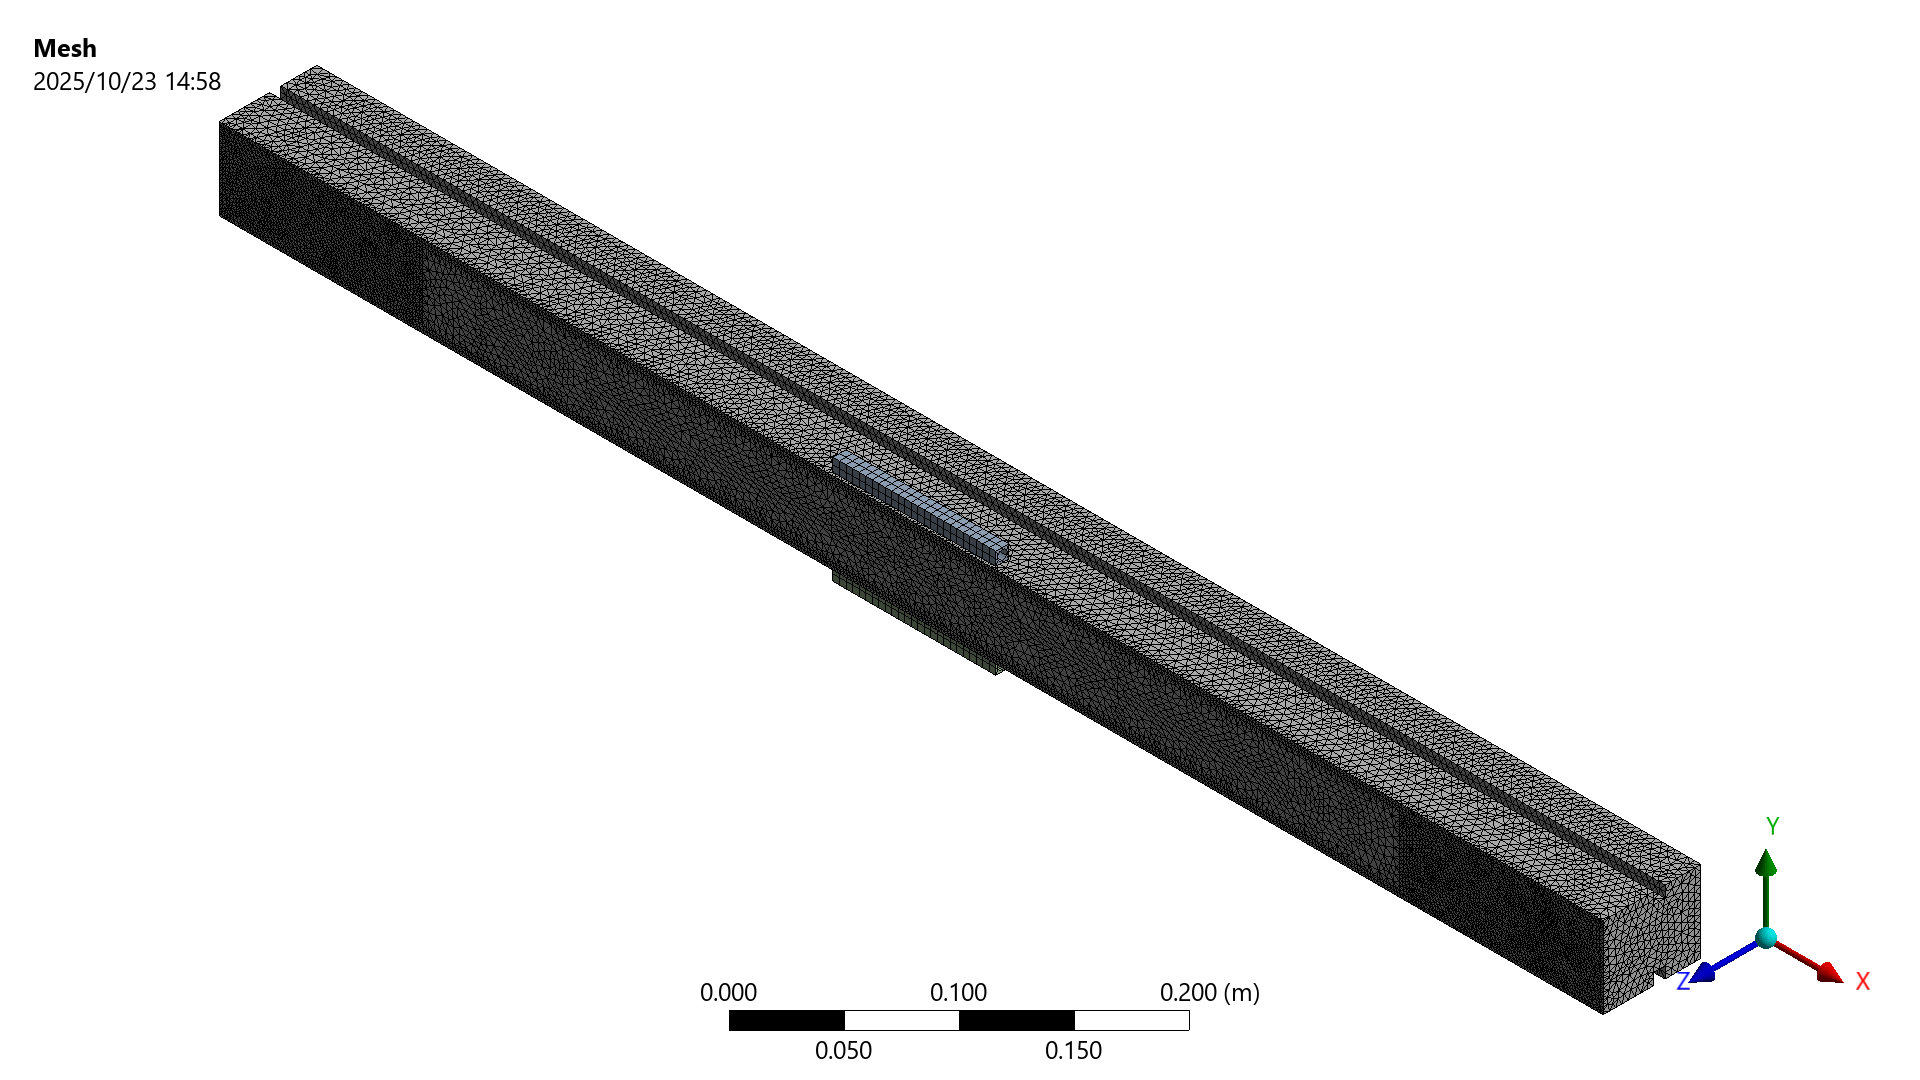
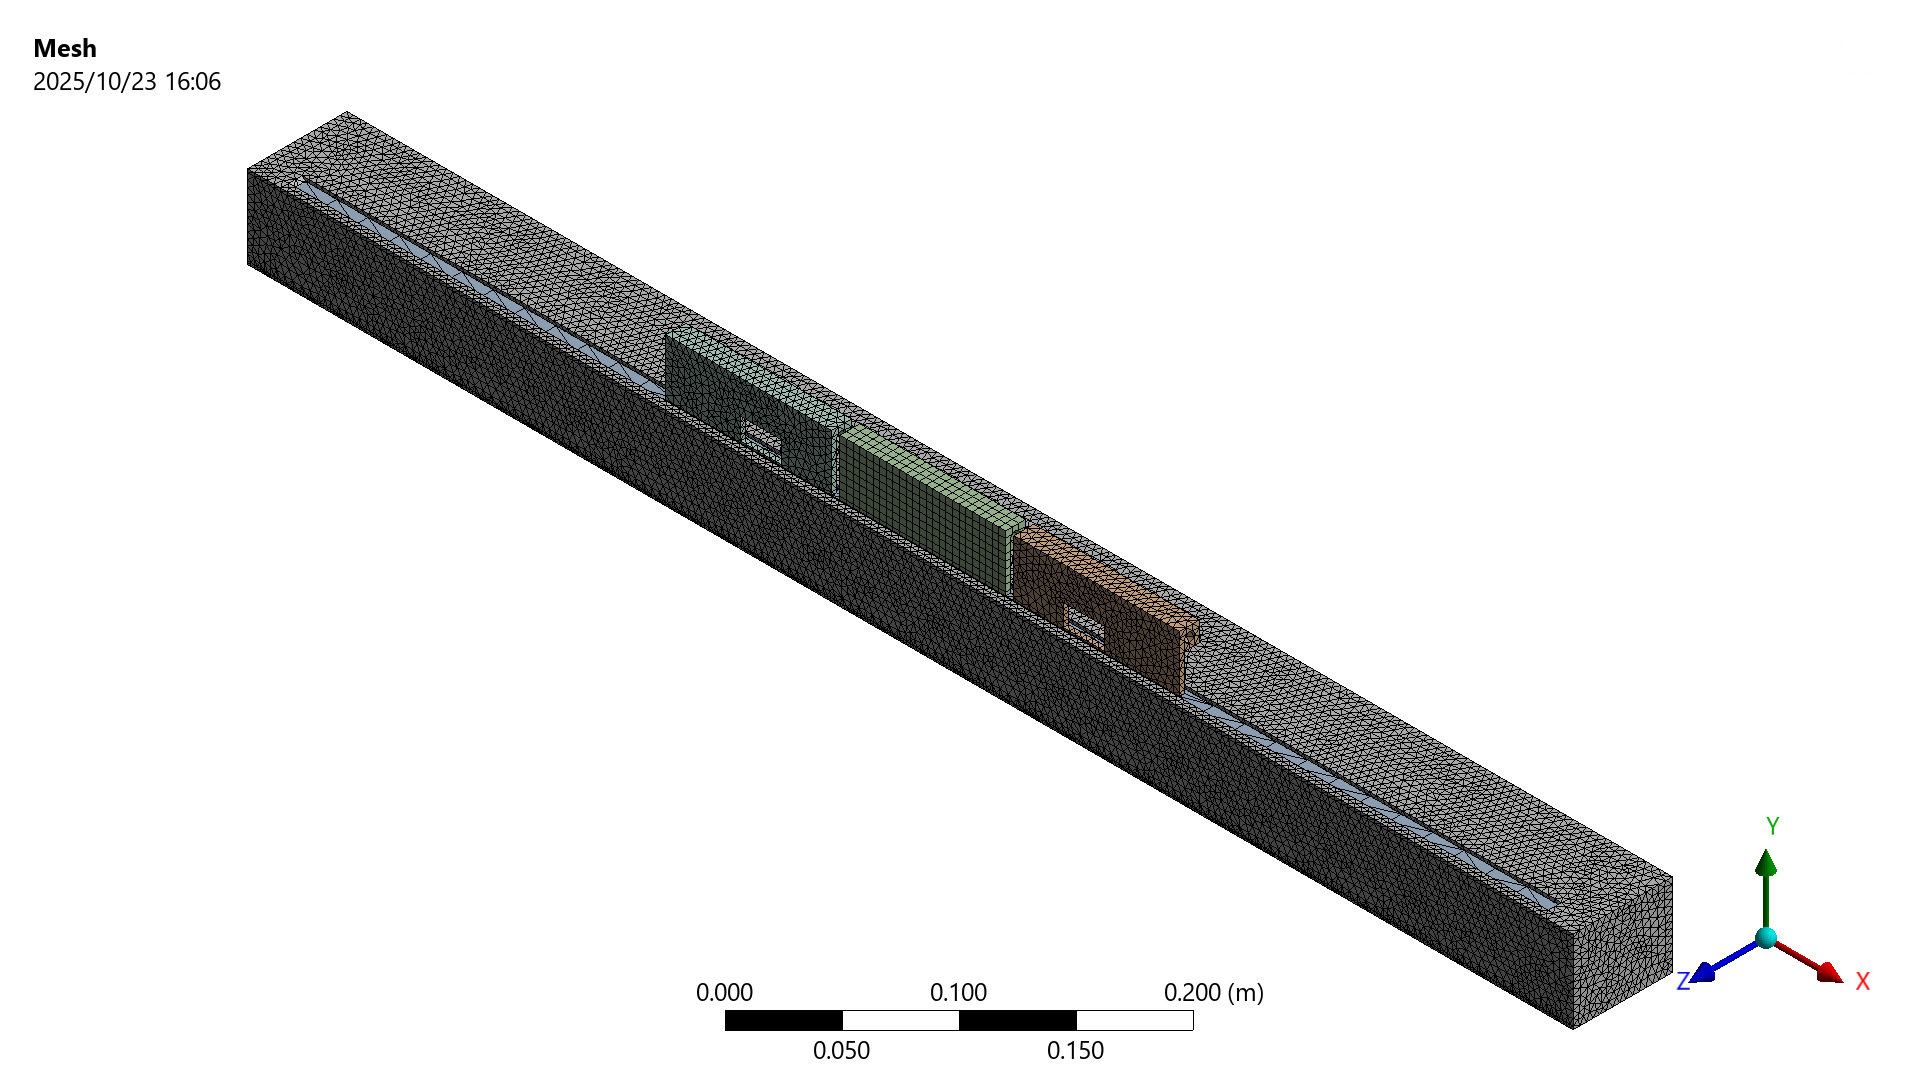
修改创建out

diff --git a/src/read_write.py b/src/read_write.py
@@ -429,7 +429,25 @@ def copy_result_to_target(mirror_name, frequency, flux):
     shutil.copy(os.path.join(cwd, "out", "deformation_trans.csv"), os.path.join(folder_path, os.path.basename('out/deformation_trans.csv')))
     shutil.copy(os.path.join(cwd, "out", "deformation_trans_Y.csv"), os.path.join(folder_path, os.path.basename('out/deformation_trans_Y.csv')))
     shutil.copy(os.path.join(cwd, "out", "GeometryParameters.txt"), os.path.join(folder_path, os.path.basename('out/GeometryParameters.txt')))
-    
+
+def init_out_files():
+    # 检查文件夹是否存在
+    folder_path = os.path.join(cwd, "out", "Ansys_out")
+    if os.path.exists(folder_path):
+        shutil.rmtree(folder_path)
+    os.makedirs(folder_path)
+
+    folder_path = os.path.join(cwd, "out", "Ansys_out","Deformation")
+    os.makedirs(folder_path)
+    folder_path = os.path.join(cwd, "out", "Ansys_out","Thermal")
+    os.makedirs(folder_path)
+    folder_path = os.path.join(cwd, "out", "Deformation")
+    if os.path.exists(folder_path):
+        shutil.rmtree(folder_path)
+    os.makedirs(folder_path)
+
+
+
 def delete_files_in_folder(folder_path):
     """ 删除文件夹中的所有文件，但不删除子文件夹 """
     # 遍历文件夹中的所有文件

diff --git a/src/main.py b/src/main.py
@@ -39,8 +39,6 @@ temp_num = (len(geometry_path)) * 1 * len(temp_vals) * len(conv_center_vals) * l
 
 if rank == 0: #拷贝已有负载
     mirror_name = [heat]
-    print(heat)
-
     #mirror_name = ["M1 EEHG"]
     #frequency = ["100k"]
     
@@ -54,8 +52,10 @@ comm.Barrier()
 geometry_path, heat_flux_path, material_path, thermal_script_path, geometry_script_path, stur_script_path = rw.get_all_path(cwd)
 if rank == 0:
     rw.save_heat_flux_path(heat_flux_path)
+    rw.init_out_files()
     print(heat_flux_path)
     # exit(0)
+comm.Barrier()
 
 for i, h in enumerate(heat_flux_path, start=0):
     print(h)
@@ -70,7 +70,7 @@ for i, h in enumerate(heat_flux_path, start=0):
     comm.Barrier() # 等待所有进程完成计算
 
     para_list = rw.check_temp_cal(cwd, temp_num, geometry_path, h, conv_center_vals, conv_side_vals, temp_vals)
-    print(para_list)
+    #print(para_list)
     
     if len(para_list) == temp_num:
         subprocess.run(["python", thermal_script_path, str(i), str(rank), str(size), colling_type, "0"])
